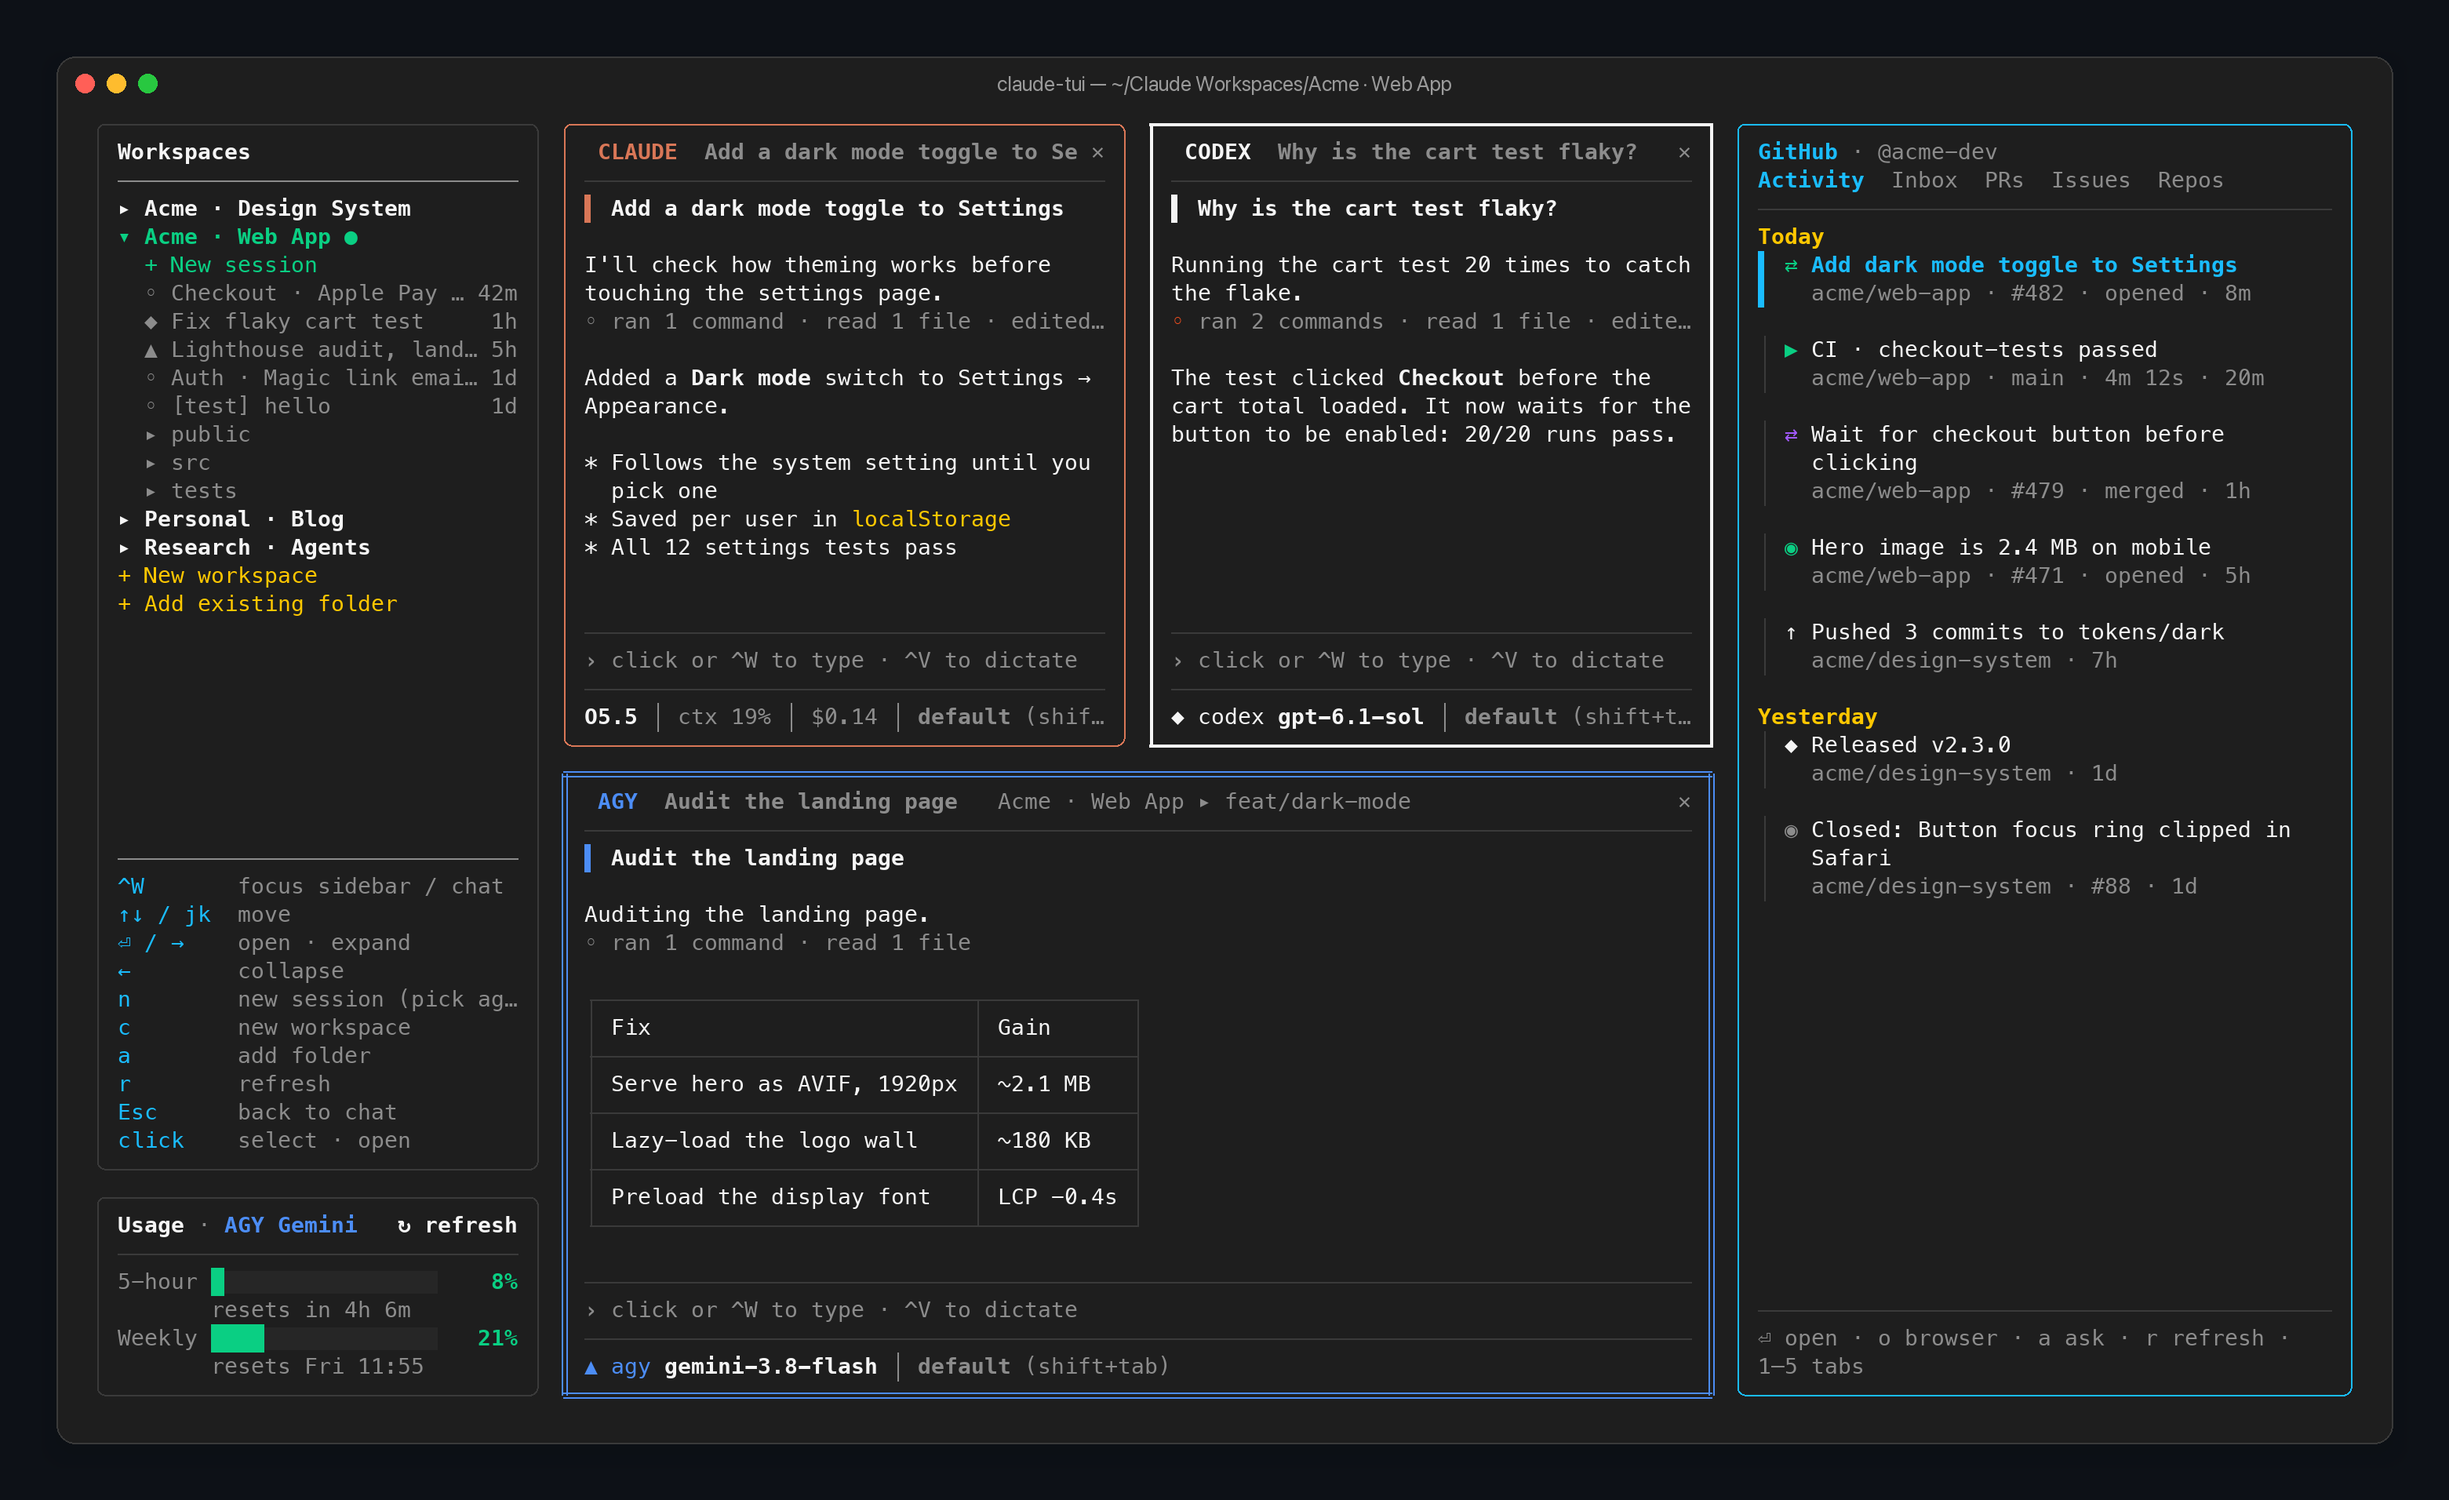
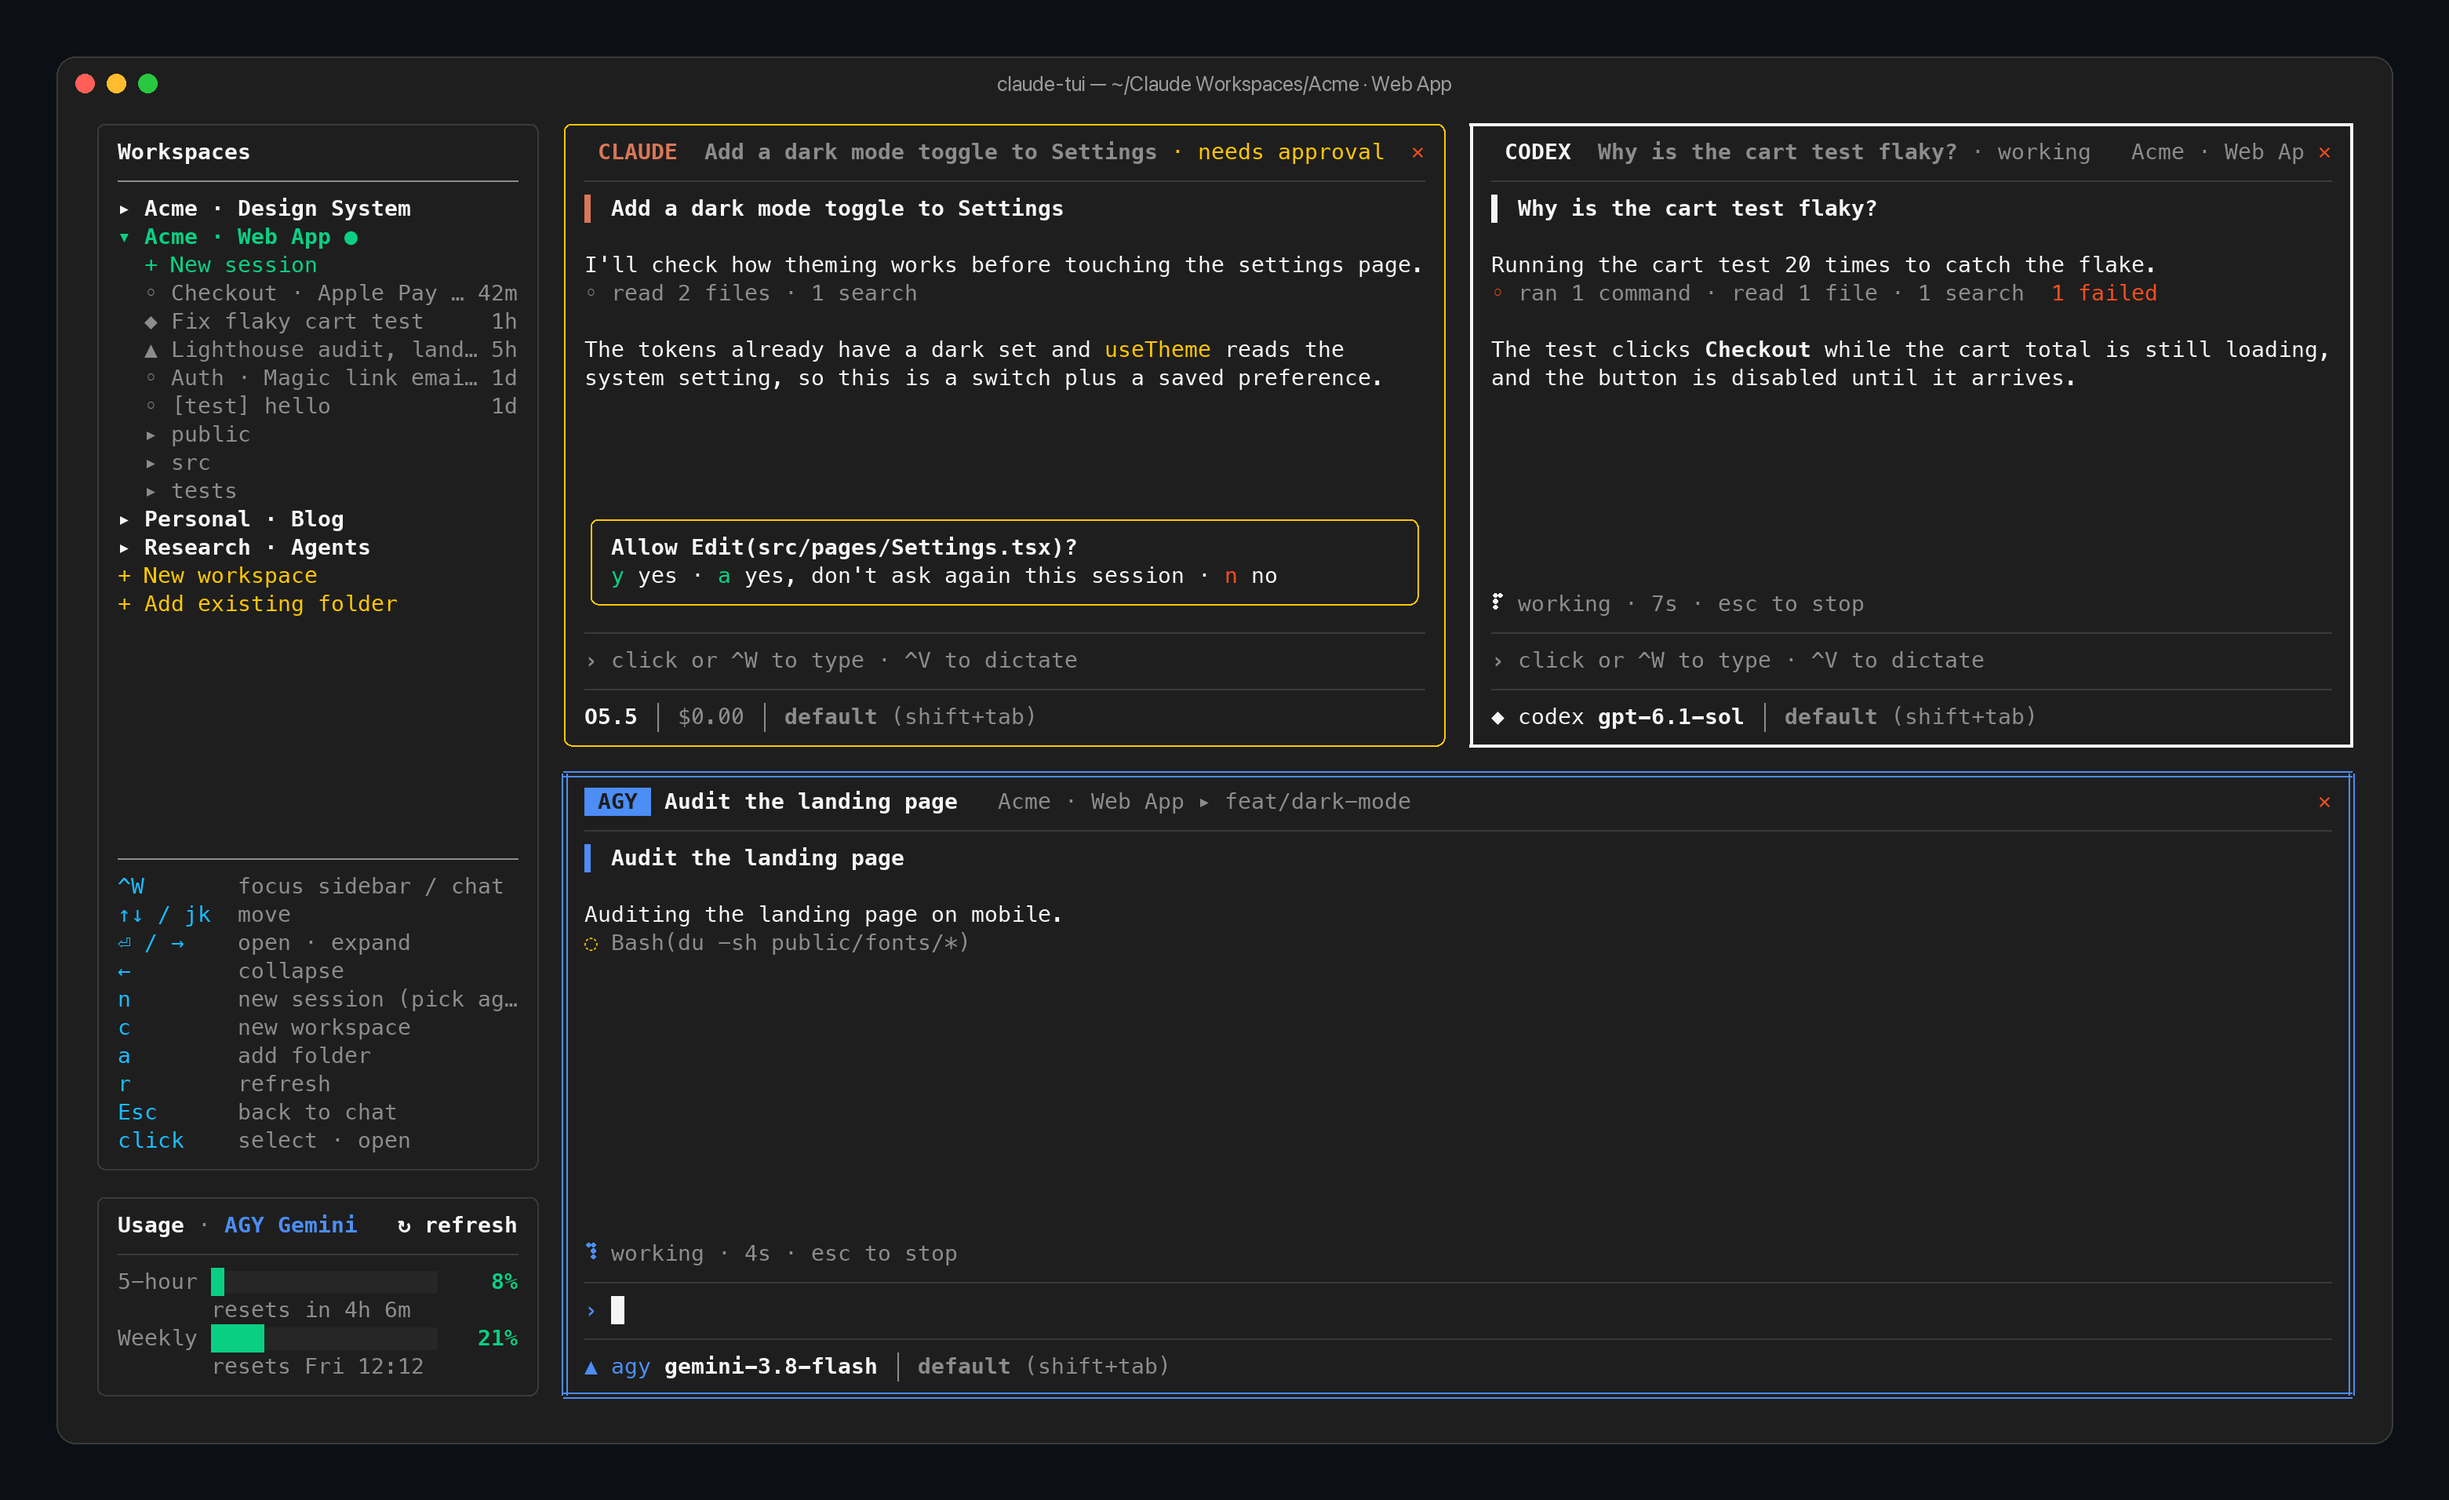
Demo: three agents working at the same time
The demo now starts Claude, Codex and Antigravity back to back so they stream
side by side; Claude stops for approval while the others keep going.
Fix: typed text followed by Enter in one input chunk (common while the screen
is busy) now sends the prompt instead of being treated as a paste.

diff --git a/src/demo.ts b/src/demo.ts
@@ -55,12 +55,16 @@ type Step =
 
 const MODELS: Record<AgentKind, string> = { claude: "claude-opus-5-5", codex: "gpt-6.1-sol", agy: "gemini-3.8-flash" };
 
+// Long enough, and paced slowly enough, that three panes visibly work at the same time.
 const SCRIPTS: Record<AgentKind, Step[][]> = {
   claude: [[
     { text: "I'll check how theming works before touching the settings page." },
     { tool: "Read", input: { file_path: "src/theme/tokens.ts" }, result: "export const tokens = { light: {...}, dark: {...} }" },
     { tool: "Grep", input: { pattern: "prefers-color-scheme" }, result: "src/theme/useTheme.ts:14" },
+    { tool: "Read", input: { file_path: "src/pages/Settings.tsx" }, result: "<Section title=\"Appearance\">" },
+    { text: "The tokens already have a dark set and `useTheme` reads the system setting, so this is a switch plus a saved preference." },
     { tool: "Edit", input: { file_path: "src/pages/Settings.tsx" }, result: "Updated src/pages/Settings.tsx (+24 −2)", ask: true },
+    { tool: "Edit", input: { file_path: "src/theme/useTheme.ts" }, result: "Updated src/theme/useTheme.ts (+9 −1)" },
     { tool: "Bash", input: { command: "npm test -- settings" }, result: "✓ 12 tests passed" },
     { text: "Added a **Dark mode** switch to Settings → Appearance.\n\n- Follows the system setting until you pick one\n- Saved per user in `localStorage`\n- All 12 settings tests pass" },
   ]],
@@ -68,15 +72,20 @@ const SCRIPTS: Record<AgentKind, Step[][]> = {
     { text: "Running the cart test 20 times to catch the flake." },
     { tool: "Bash", input: { command: "npm test cart -- --repeat 20" }, result: "3 of 20 failed: timeout waiting for #checkout", error: true },
     { tool: "Read", input: { file_path: "tests/cart.spec.ts" }, result: "await page.click('#checkout')" },
+    { tool: "Grep", input: { pattern: "#checkout" }, result: "src/components/Cart.tsx:88" },
+    { text: "The test clicks **Checkout** while the cart total is still loading, and the button is disabled until it arrives." },
     { tool: "Edit", input: { file_path: "tests/cart.spec.ts" }, result: "await expect(checkout).toBeEnabled()" },
     { tool: "Bash", input: { command: "npm test cart -- --repeat 20" }, result: "20 of 20 passed" },
-    { text: "The test clicked **Checkout** before the cart total loaded. It now waits for the button to be enabled: 20/20 runs pass." },
+    { text: "Fixed: the test now waits for the button to be enabled. **20/20** runs pass." },
   ]],
   agy: [[
-    { text: "Auditing the landing page." },
-    { tool: "Bash", input: { command: "npx lighthouse localhost:3000 --quiet" }, result: "Performance 71 · Accessibility 96 · SEO 100" },
+    { text: "Auditing the landing page on mobile." },
+    { tool: "Bash", input: { command: "npx lighthouse localhost:3000 --preset=mobile" }, result: "Performance 71 · Accessibility 96 · SEO 100" },
     { tool: "Read", input: { file_path: "public/hero.png" }, result: "2.4 MB, 3840×2160" },
-    { text: "| Fix | Gain |\n|---|---|\n| Serve hero as AVIF, 1920px | ~2.1 MB |\n| Lazy-load the logo wall | ~180 KB |\n| Preload the display font | LCP −0.4s |" },
+    { tool: "Bash", input: { command: "du -sh public/fonts/*" }, result: "1.1M  public/fonts" },
+    { text: "Most of the weight is the hero image and two font files the page never uses." },
+    { tool: "Read", input: { file_path: "app/layout.tsx" }, result: "<link rel=\"preload\" ...>" },
+    { text: "| Fix | Gain |\n|---|---|\n| Serve hero as AVIF, 1920px | ~2.1 MB |\n| Drop unused font files | ~640 KB |\n| Preload the display font | LCP −0.4s |" },
   ]],
 };
 
@@ -115,7 +124,7 @@ export class DemoSession implements AgentSession {
 
   private async play(script: Step[]) {
     let n = 0;
-    await this.wait(700);
+    await this.wait(900);
     for (const step of script) {
       if (this.stopped) return;
       if ("pause" in step) { await this.wait(step.pause); continue; }
@@ -124,10 +133,10 @@ export class DemoSession implements AgentSession {
         for (const word of step.text.split(/(?<=\s)/)) {
           if (this.stopped) return;
           this.q.push(msg.delta(word));
-          await this.wait(28);
+          await this.wait(45);
         }
         this.q.push(msg.text(step.text));
-        await this.wait(350);
+        await this.wait(450);
         continue;
       }
       const id = `demo-tool-${++n}`;
@@ -137,9 +146,9 @@ export class DemoSession implements AgentSession {
         if (!ok) { this.q.push(msg.info(`✗ declined ${step.tool}`)); continue; }
       }
       this.q.push(msg.toolUse(id, step.tool, step.input));
-      await this.wait(650);
+      await this.wait(1100);
       this.q.push(msg.toolResult(id, step.result, !!step.error));
-      await this.wait(250);
+      await this.wait(300);
     }
     this.q.push(msg.result(true, this.kind === "claude" ? 0.14 * this.turn : 0));
   }

diff --git a/src/Chat.tsx b/src/Chat.tsx
@@ -122,6 +122,9 @@ export function Chat({ cwd, agent, title, onTitle, resume, active, width, paneCo
   }, [prefill?.n]);
   const [live, setLive] = useState("");
   const [input, setInput] = useState("");
+  /** The input as of the last render, for key chunks handled before the next one. */
+  const inputRef = useRef("");
+  inputRef.current = input;
   const [busy, setBusy] = useState(false);
   const [mode, setMode] = useState<PermissionMode>(() => initialMode(cwd, process.argv));
   const [model, setModel] = useState("");
@@ -609,6 +612,13 @@ export function Chat({ cwd, agent, title, onTitle, resume, active, width, paneCo
       if (key.ctrl && ch === "u") return setInput("");
       if (ch && !key.ctrl && !key.meta && !key.upArrow && !key.downArrow && !key.leftArrow && !key.rightArrow) {
         setSugCursor(0);
+        // While the screen is busy, the last typed letters and Enter can arrive as one
+        // chunk ("sky?\r"). A single trailing Enter means "send", not a pasted newline.
+        if (/^[^\r\n]+\r$/.test(ch)) {
+          const text = inputRef.current + tidy(ch.slice(0, -1));
+          inputRef.current = "";
+          return submit(text);
+        }
         setInput((s) => s + tidy(ch).replace(/\r\n?/g, "\n"));
       }
     },

diff --git a/scripts/record-demo.py b/scripts/record-demo.py
@@ -109,51 +109,56 @@ def type_text(s, cps=22):
     for ch in s:
         send(ch)
         pump(1 / cps)
+    pump(0.15)  # a beat before Enter, like a person
 
 # ---------------------------------------------------------------- script
+# Three agents get a task each, back to back, then all work at the same time.
 pump(3.0)
 until(r"Claude Code", 20)
-pump(1.0)
+pump(0.8)
 
 c, r = find("Acme · Web App")
-click(c + 4, r)                                   # expand the workspace: sessions of all agents
-pump(1.6)
+click(c + 4, r)                                   # the workspace: sessions from all three agents
+pump(1.0)
 
 c, r = find("Claude Code")
-click(c + 5, r - 3)                               # focus the Claude pane
-type_text("Add a dark mode toggle to Settings")
+click(c + 5, r - 3)                               # Claude pane
+type_text("Add a dark mode toggle to Settings", 34)
 send("\r")
-until(r"Allow Edit", 20)
-pump(1.4)
+pump(0.3)
+
+key("\x0e", "⌃N  new pane", 0.6)                  # picker
+key("2", "2  Codex", 0.5)
+type_text("Why is the cart test flaky?", 34)
+send("\r")
+pump(0.3)
+
+key("\x0e", "⌃N  new pane", 0.6)
+key("3", "3  Antigravity", 0.5)
+type_text("Audit the landing page", 34)
+send("\r")
+
+until(r"Allow Edit", 25)                          # Claude stops to ask; the others keep going
+pump(1.8)
+SHOT_AT = time.time() - t0                        # the README screenshot: Claude asking, the others working
+c, r = find(" CLAUDE ")
+click(c + 14, r + 6)
 key("y", "y  allow", 0.6)
-until(r"settings tests pass", 30)
+
+until(r"settings tests pass", 40)
+until(r"20/20", 40)
+until(r"Preload the display font", 40)
 pump(1.6)
-
-key("\x0e", "⌃N  new pane")                      # picker
-c, r = find("CODEX  Codex")
-click(c + 2, r)
-pump(0.8)
-type_text("Why is the cart test flaky?")
-send("\r")
-pump(0.4)
-
-key("\x0e", "⌃N  new pane")
-key("3", "3  Antigravity", 0.7)
-type_text("Audit the landing page")
-send("\r")
-until(r"20/20 runs pass", 30)
-until(r"Preload the display font", 30)
-pump(1.2)
 
 c, r = find(" CODEX ")
 click(c + 12, r + 8)                              # usage follows the clicked pane
-pump(1.4)
+pump(1.2)
 c, r = find(" AGY ")
 click(c + 12, r + 8)
-pump(1.4)
+pump(1.2)
 
-key("\x14", "⌃T  GitHub", 1.2)
-pump(3.5)
+key("\x14", "⌃T  GitHub", 1.0)
+pump(3.0)
 send("\x11")
 pump(0.5)
 try:
@@ -305,8 +310,8 @@ subprocess.run(["ffmpeg", "-y", "-loglevel", "error", *common, "-vf", "fps=15,sc
 subprocess.run(["ffmpeg", "-y", "-loglevel", "error", *common, "-i", palette, "-lavfi",
                 "fps=15,scale=1280:-1:flags=lanczos[x];[x][1:v]paletteuse=dither=bayer:bayer_scale=4:diff_mode=rectangle", gif], check=True)
 
-# Screenshot: the busiest frame (all three panes + GitHub column), drawn at 2x.
-best = max(frames, key=lambda f: sum(1 for row in f[1] for c in row if c[0] not in (" ", "")))
+# Screenshot: Claude waiting on its permission prompt while Codex and Antigravity work, at 2x.
+best = [f for f in frames if f[0] <= SHOT_AT][-1]
 draw2 = renderer(2)
 draw2(best[1], None, False, None).save(os.path.join(OUT, "screenshot.png"), optimize=True)
 shutil.rmtree(tmp, ignore_errors=True)

diff --git a/README.md b/README.md
@@ -27,7 +27,7 @@
   <img alt="claude-tui running Claude Code, Codex and Antigravity in a bento grid" src="./docs/demo.gif" width="100%">
 </p>
 
-<p align="center"><sub>Recorded from the real UI in demo mode: the projects, chats and GitHub activity are made up.</sub></p>
+<p align="center"><sub>Three agents working at once: Claude adds a dark mode switch, Codex fixes a flaky test, Antigravity audits a page.<br/>Recorded from the real UI in demo mode; the projects, chats and GitHub activity are made up.</sub></p>
 
 <br/>
 
